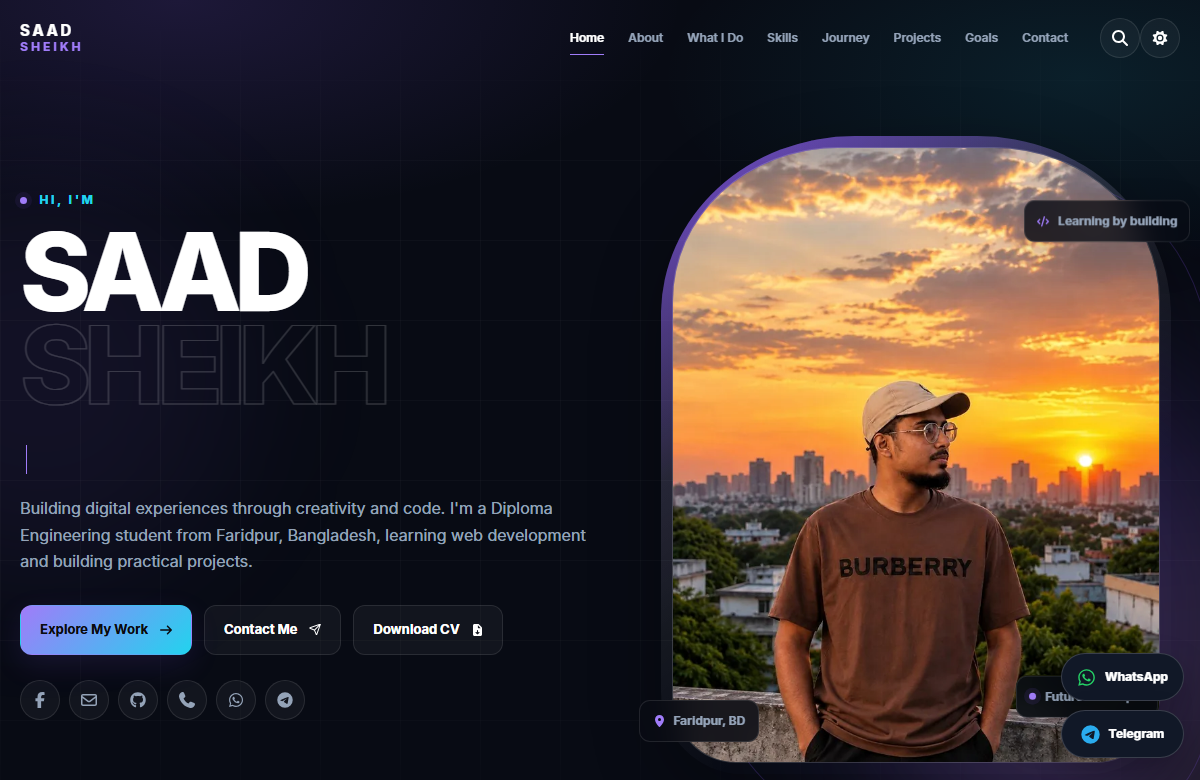
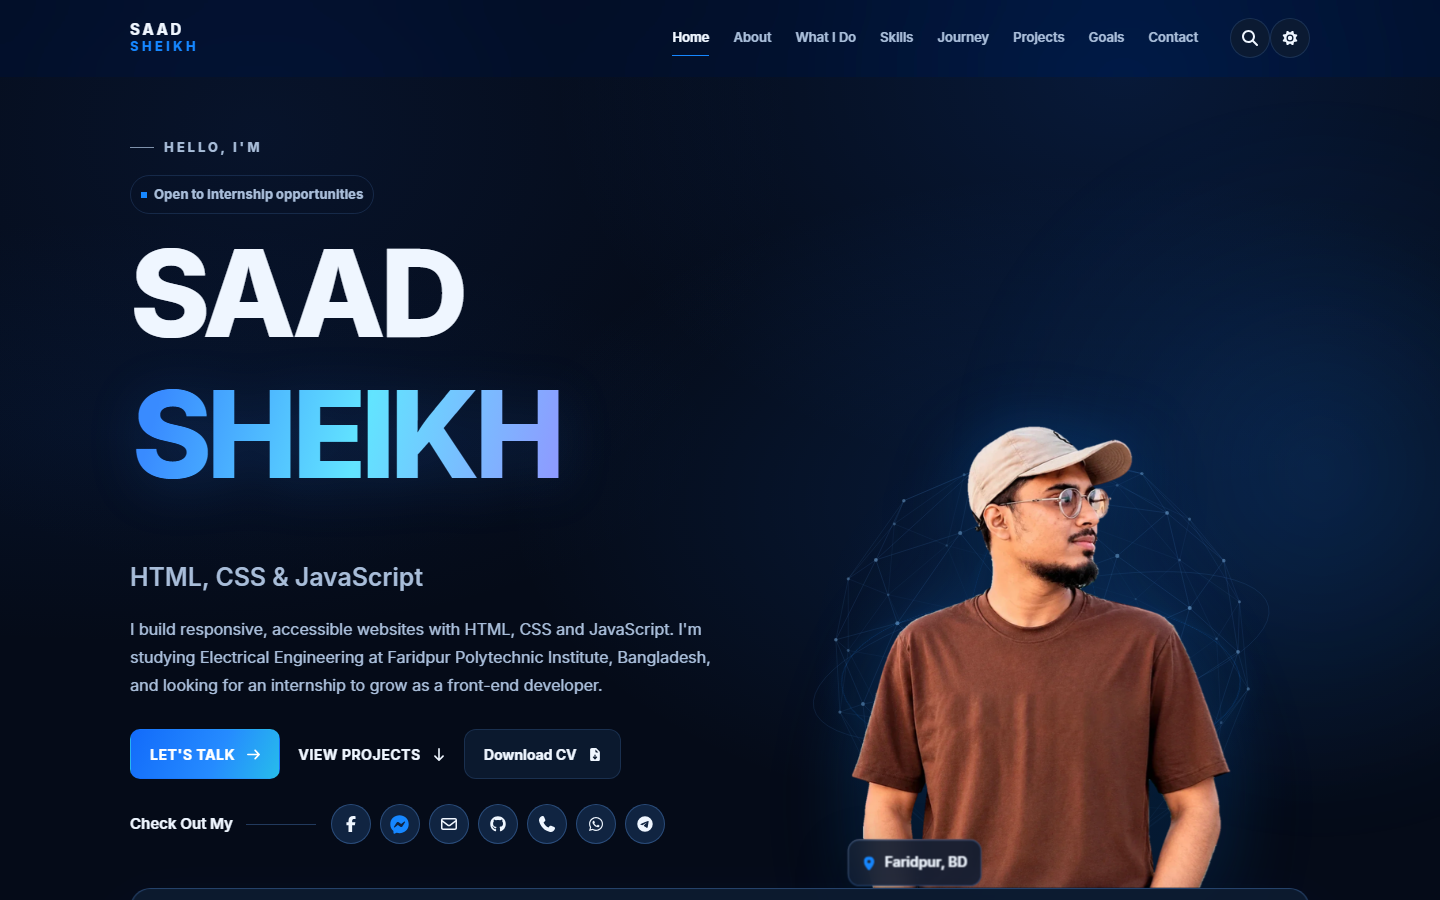
Add files via upload

diff --git a/sw.js b/sw.js
@@ -1,6 +1,6 @@
 /* Saad Sheikh portfolio service worker. Versioned cache prevents stale deployments. */
 'use strict';
-const CACHE = 'saad-portfolio-pro-v18';
+const CACHE = 'saad-portfolio-pro-v19';
 const CORE = [
   './', './404.html',
   'index.html', 'about.html', 'contact.html', 'privacy-policy.html', 'terms.html', 'thanks.html',
